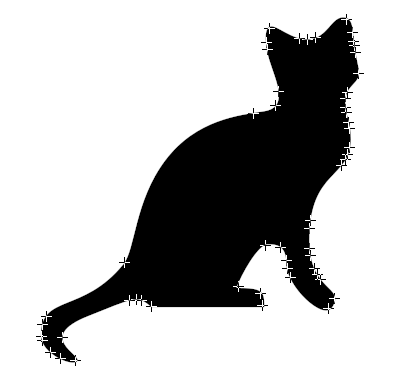
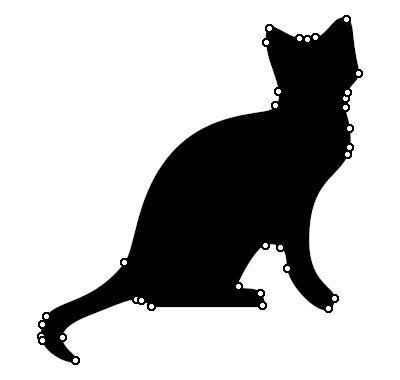
fixed bugs with new directory structure. added new corner examples with circles instead of crosses

diff --git a/scripts/run_all.py b/scripts/run_all.py
@@ -18,30 +18,30 @@ def inpaint(inim, mask, *args, outim=None):
     args = str_list(args)
     if outim is None:
         outim = inpaint_name(inim)
-    cmd = ['build/inpainting', inim, mask, *args, '-o', outim]
+    cmd = ['bin/inpaint', inim, mask, *args, '-o', outim]
     print(' '.join(cmd))
     run(cmd)
 
 
 def mask(inim, *args, outim=None):
-    ''' Pass all arguments that build/corners accepts '''
+    ''' Pass all arguments that bin/corner accepts '''
     log_thread(f'Mask computation {inim}')
     args = str_list(args)
     if outim is None:
         outim = mask_name(inim)
-    cmd = ['build/corners', inim, '-M', '-o', outim, *args]
+    cmd = ['bin/corner', inim, '-M', '-o', outim, *args]
     print(' '.join(cmd))
     run(cmd)
     return outim
 
 
 def corners(inim, *args, outim=None):
-    ''' Pass all arguments that build/corners accepts '''
+    ''' Pass all arguments that bin/corner accepts '''
     log_thread(f'Corner detection {inim}')
     args = str_list(args)
     if outim is None:
         outim = mask_name(inim)
-    cmd = ['build/corners', inim, '-o', outim, *args]
+    cmd = ['bin/corner', inim, '-o', outim, *args]
     print(' '.join(cmd))
     run(cmd)
     return outim

diff --git a/thesis/Chapters/Implementation.tex b/thesis/Chapters/Implementation.tex
@@ -320,7 +320,8 @@ for two different input images as we can see in~\ref{fig:PercExample}.
     \centering
     \includegraphics[width=0.4\linewidth]{example_rect_50.png}
     \includegraphics[width=0.4\linewidth]{example_cat_50.png}
-    \caption{Corner detection with the same parameters}%
+    \caption{Corner detection with the same parameters. Parameters are $\sigma=1,\rho=2,q=0.3$, no
+    CNMS, no TPPT}
     \label{fig:PercExample}
 \end{figure}\\
 To tackle this issue, I propose a new method that I call \textit{Total Pixel Percentage
@@ -337,8 +338,7 @@ by~\cite{hilbert96}
     \frac{r^2}{4i+3}\right\rfloor\right)
 \end{equation}
 but since this is an infinite sum, the exact solution can not be computed this way. This is why I
-chose the naive way by just iterating through a loop and count the numbers inside the disk.% as seen
-%in~\ref{fig:PixelRegion}. 
+chose the naive way by just iterating through a loop and count the numbers inside the disk.
 I could have also chosen to use an upper bound and estimate the number of pixels that 
 way, but this would not have been as accurate.\\
 %\begin{figure}[ht]

diff --git a/src/corner_detection.c b/src/corner_detection.c
@@ -934,7 +934,7 @@ int main(int argc, char **argv) {
   printf("CORNER DETECTION WITH THE STRUCTURE TENSOR\n\n");
 
   int c;
-  while ((c = getopt(argc, argv, "q:c:s:r:o:m:CDMP")) != -1) {
+  while ((c = getopt(argc, argv, "q:c:s:r:o:m:d:CDMP")) != -1) {
     switch (c) {
     case 'q':
       q = atof(optarg);
@@ -971,11 +971,13 @@ int main(int argc, char **argv) {
       OPTIONS.display_mask = true;
       break;
     case 'd':
-      if (*optarg != 'x' || *optarg != 'o') {
-        fprintf(stderr, "Invalid corner display type! Defaulting to circle\n");
+      printf("Arg: %c\n", *optarg);
+      if (*optarg != 'x' && *optarg != 'o') {
+        fprintf(stderr, "Invalid corner display type! Defaulting to cross\n");
       } else {
         display_type = *optarg;
       }
+      printf("Using %c to mark corner locations.\n", display_type);
       break;
     default:
       abort();
